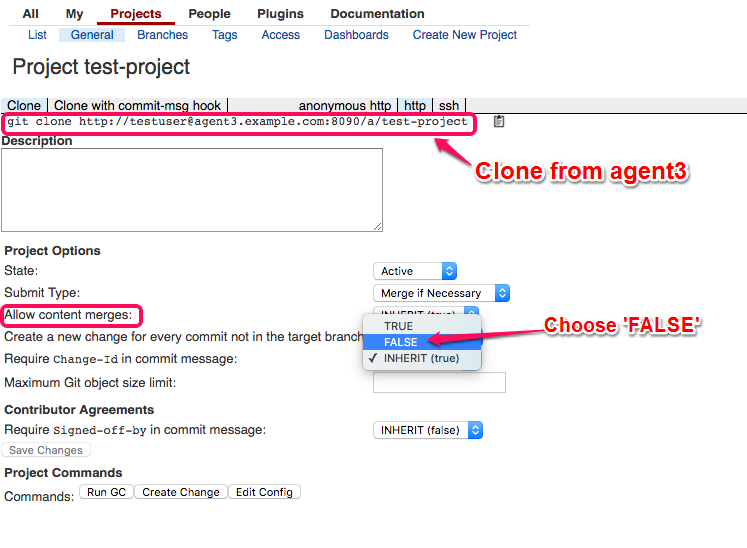
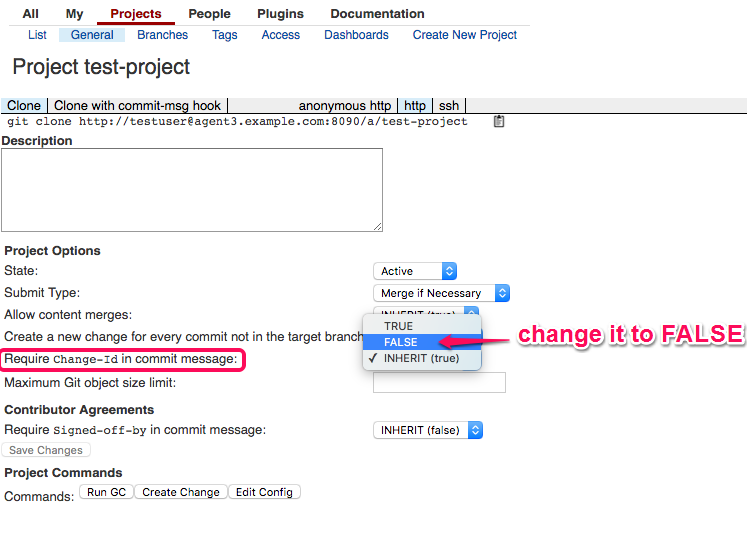
Updates to Readme

Changed region(s): [[0.0, 0.1861, 0.9237, 0.3412], [0.0, 0.5274, 0.3387, 0.6825], [0.5542, 0.5584, 1.0, 0.6515]]

diff --git a/README.md b/README.md
@@ -326,7 +326,9 @@ Gerrit is a code review tool which will be installed in Agent3 by puppet module.
 
   ![g8](images/g8.png)
 
-* Clone `test-project` from agent3 for testuser and choose `FALSE` for `Allow content merges`
+* Clone `test-project` from agent3 for testuser and choose `FALSE` for `Require Change-Id in commit message`
+
+	![g9](images/g9.png)
 
   ![g10](images/g10.png)
 
